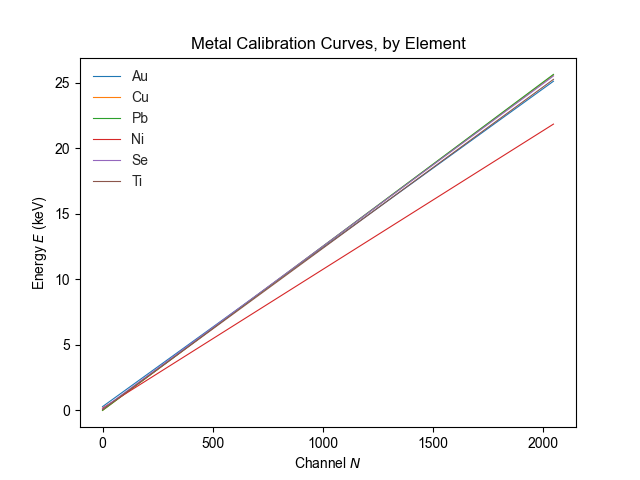
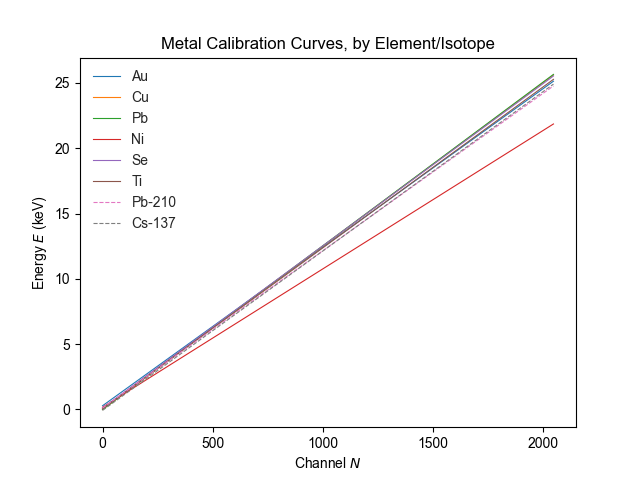
edit graph title

diff --git a/src/metals_self_calib.py b/src/metals_self_calib.py
@@ -12,7 +12,7 @@ import numpy as np
 import matplotlib.pyplot as plt
 
 from xrf import calib
-from calibration import (pb210_calib_fit, cs137_calib_fit)
+from calibration import (energies_default, energies_high_rate)
 
 
 save_plots = False
@@ -564,7 +564,7 @@ if __name__ == "__main__":
                 k = 1
             calib_curves[metal[i]] = {}
             calib_curves[metal[i]]["fit"] = locals()[metal[i] + "_calib_fit"]
-            calib_curves[metal[i]]["fit"][0] *= k  # scale high energy by 1/2
+            calib_curves[metal[i]]["fit"][0] *= k  # scale high rate energy by 1/2
             calib_curves[metal[i]]["err"] = locals()[metal[i] + "_calib_err"]
             energies = calib.line(
                 SDD_channels,
@@ -572,10 +572,16 @@ if __name__ == "__main__":
                 calib_curves[metal[i]]["fit"][1],
             )
             plt.plot(
-                SDD_channels, energies, linewidth=0.8, label=metal[i][:2].capitalize()
+                SDD_channels, energies, linewidth=0.8, label=metal[i][:2].capitalize(),
             )
+        plt.plot(
+            SDD_channels, energies_default, '--', linewidth=0.8, label="Pb-210",
+        )
+        plt.plot(
+            SDD_channels, 0.5 * energies_high_rate, '--', linewidth=0.8, label="Cs-137",
+        )
         plt.style.use("seaborn")
-        plt.title("Metal Calibration Curves, by Element")
+        plt.title("Metal Calibration Curves, by Element/Isotope")
         plt.xlabel("Channel $N$")
         plt.ylabel("Energy $E$ (keV)")
         plt.legend()
